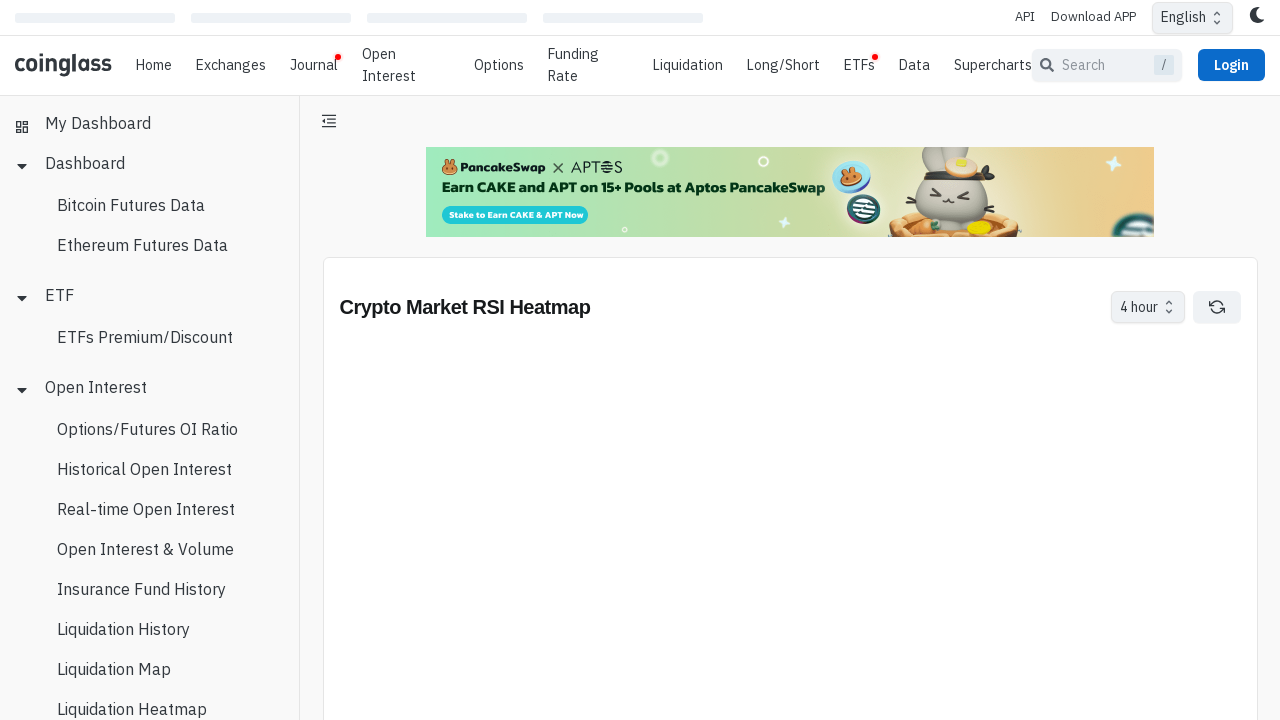
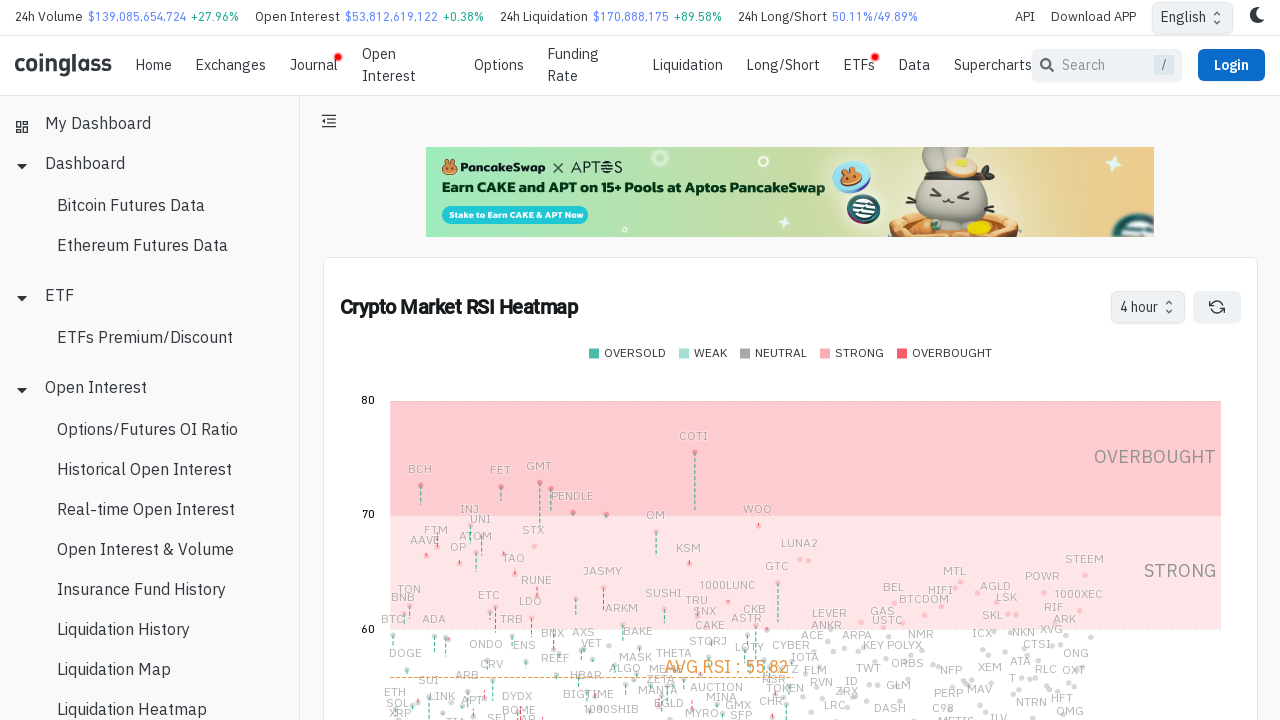
Refactor code to handle consent button click and capture screenshots

diff --git a/12trackCoingGlassRSI.py b/12trackCoingGlassRSI.py
@@ -23,7 +23,7 @@ with sync_playwright() as p:
 	browser = p.chromium.launch(headless=True)
 	page = browser.new_page()
 	page.goto("https://www.coinglass.com/pro/i/RsiHeatMap")
-	#page.click('button:has-text("Consent")')  # Замените селектором, который соответствует кнопке.
+	page.click('button:has-text("Consent")')  # Замените селектором, который соответствует кнопке.
 	page.screenshot(path="12trackCoingGlassRSI.png")
 	page.click('text="4 hour"')  # Открыть выпадающий список
 	page.screenshot(path="12trackCoingGlassRSI11.png")
@@ -56,7 +56,7 @@ response = client.chat.completions.create(
     response_format={"type": "json_object"}
 )
 assets = response.choices[0].message.content
-
+links = []  # Initialize the links variable as an empty list
 try:
     assets_list = json.loads(assets)
 
@@ -64,10 +64,12 @@ try:
     if not assets_list:
         raise ValueError("No assets found in the response.")
     
+    
     for asset in assets_list:
         asset_name = asset.get('asset_name')
         if asset_name:
             print(f"Asset name: {asset_name}")
+            links.append(f'https://www.bybit.com/trade/usdt/{asset_name}USDT')  # Append the link to the links list
         else:
             print("Asset name not found")
 except (KeyError, ValueError) as e:
@@ -92,8 +94,10 @@ url = f'https://api.telegram.org/bot{TG_BOT_TOKEN}/sendPhoto'
 files = {'photo': open(image_path, 'rb')}
 data = {
     'chat_id': TG_CHAT_ID,
-    'caption': assets
+    'caption': '\n'.join(links)
 }
+
+
 r = requests.post(url, files=files, data=data)
 print(r.json())
 
